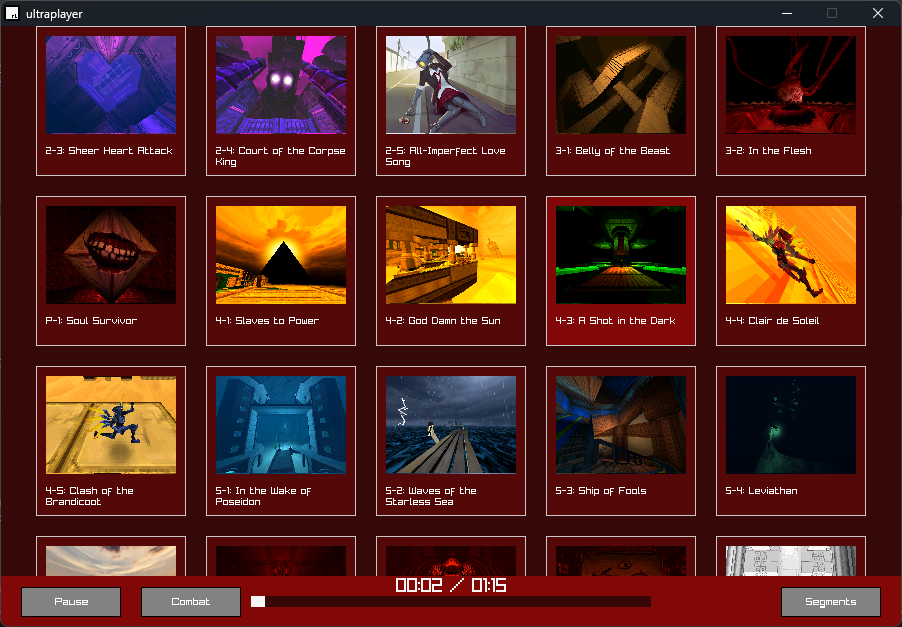
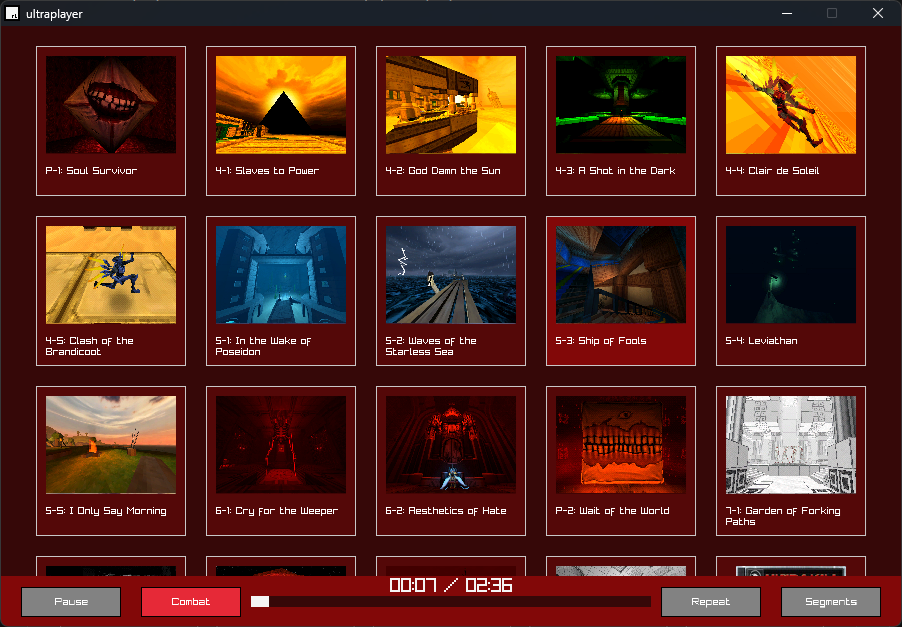
update readme

diff --git a/readme.md b/readme.md
@@ -20,8 +20,16 @@ Support for segments:
 - Levels with name and thumbnail
 - Each level has segments
 - Each segment has a base loop and an optional combat loop
+- Repeat song or play in chronological order
+- Keyboard controls
 - Built in Raylib
 
+### Controls
+pause: `space`  
+switch combat/peaceful: `c`  
+repeat: `r`  
+next: `arrow right`  
+previous: `arrow left`  
 
 ## Building
 **There is no need to recompile if you just want to change the `data.json`!**
